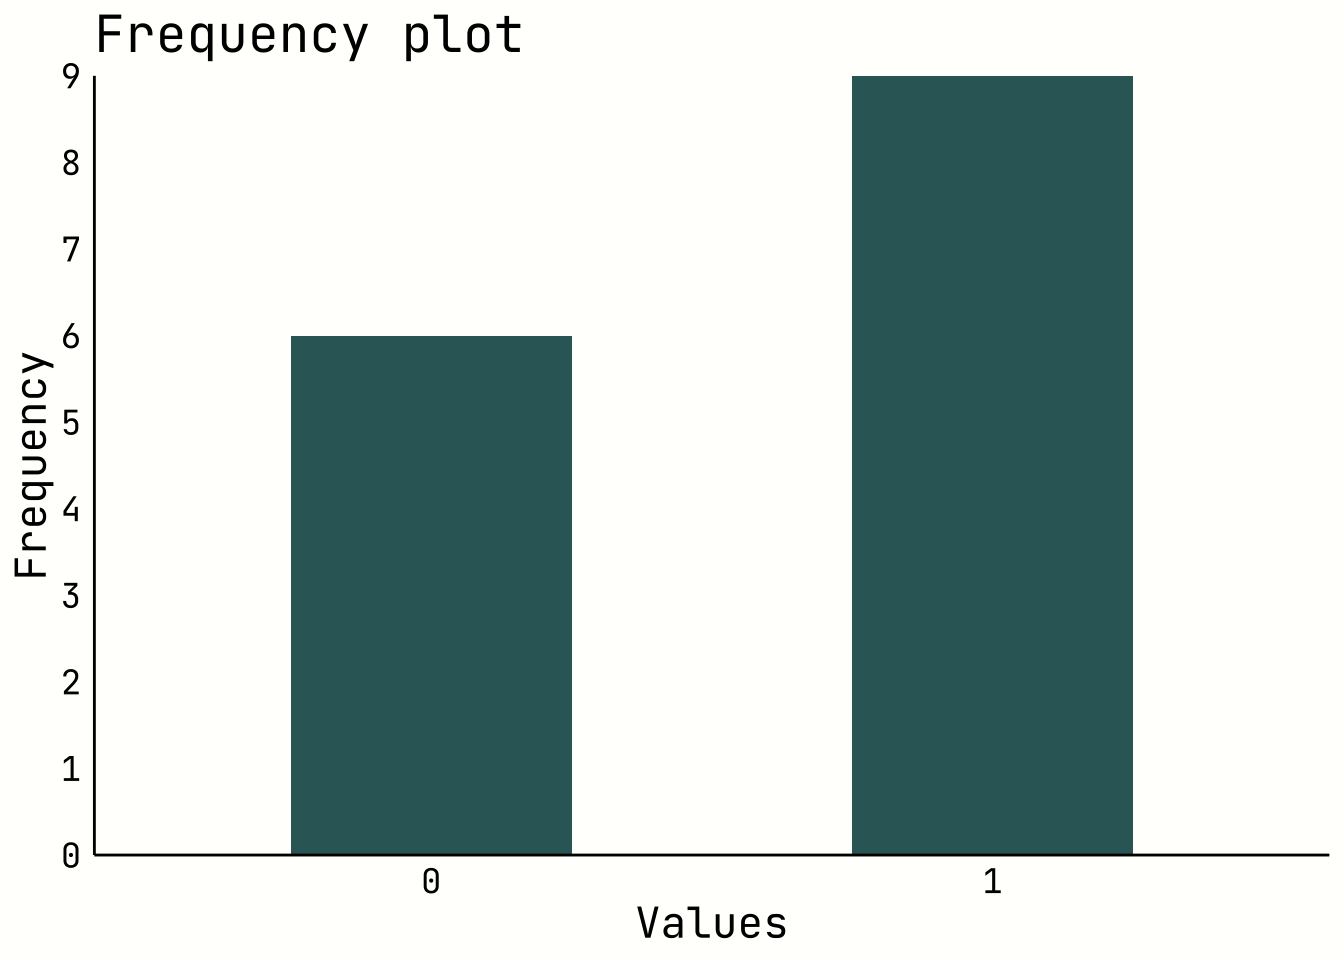
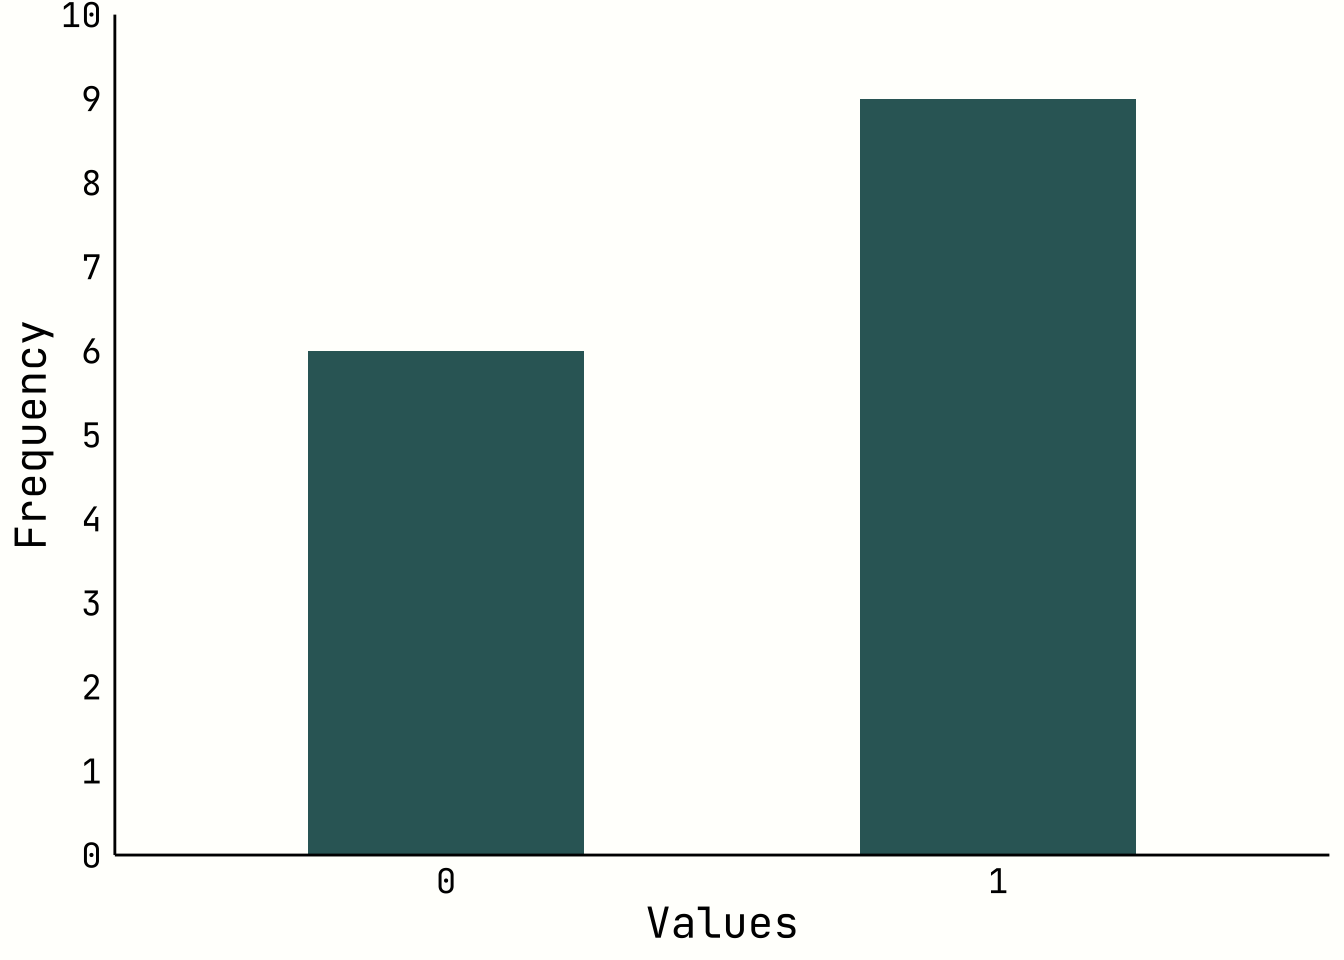
Added some marginx

diff --git a/theme/theme.html b/theme/theme.html
@@ -107,23 +107,20 @@ pre > code.sourceCode > span > a:first-child::before { text-decoration: underlin
 <h2 class="anchored" data-anchor-id="setup">Setup</h2>
 <div class="cell">
 <div class="sourceCode cell-code" id="cb1"><pre class="sourceCode r code-with-copy"><code class="sourceCode r"><span id="cb1-1"><a href="#cb1-1" aria-hidden="true" tabindex="-1"></a><span class="fu">library</span>(tidyverse)</span>
-<span id="cb1-2"><a href="#cb1-2" aria-hidden="true" tabindex="-1"></a><span class="fu">library</span>(ggplot2)</span></code><button title="Copy to Clipboard" class="code-copy-button"><i class="bi"></i></button></pre></div>
+<span id="cb1-2"><a href="#cb1-2" aria-hidden="true" tabindex="-1"></a><span class="fu">library</span>(ggplot2)</span>
+<span id="cb1-3"><a href="#cb1-3" aria-hidden="true" tabindex="-1"></a>devtools<span class="sc">::</span><span class="fu">source_url</span>(<span class="st">"https://raw.githubusercontent.com/AJThurston/dataviz/refs/heads/main/theme/theme.r"</span>)</span></code><button title="Copy to Clipboard" class="code-copy-button"><i class="bi"></i></button></pre></div>
 </div>
 </section>
 <section id="plot" class="level2">
 <h2 class="anchored" data-anchor-id="plot">Plot</h2>
 <div class="cell">
-<div class="sourceCode cell-code" id="cb2"><pre class="sourceCode r code-with-copy"><code class="sourceCode r"><span id="cb2-1"><a href="#cb2-1" aria-hidden="true" tabindex="-1"></a>devtools<span class="sc">::</span><span class="fu">source_url</span>(<span class="st">"https://raw.githubusercontent.com/AJThurston/dataviz/refs/heads/main/theme/theme.r"</span>)</span>
+<div class="sourceCode cell-code" id="cb2"><pre class="sourceCode r code-with-copy"><code class="sourceCode r"><span id="cb2-1"><a href="#cb2-1" aria-hidden="true" tabindex="-1"></a>df <span class="ot">&lt;-</span> <span class="fu">data.frame</span>(<span class="at">values =</span> <span class="fu">as.factor</span>(<span class="fu">c</span>(<span class="fu">rep</span>(<span class="dv">0</span>,<span class="dv">6</span>),<span class="fu">rep</span>(<span class="dv">1</span>,<span class="dv">9</span>))))</span>
 <span id="cb2-2"><a href="#cb2-2" aria-hidden="true" tabindex="-1"></a></span>
-<span id="cb2-3"><a href="#cb2-3" aria-hidden="true" tabindex="-1"></a>df <span class="ot">&lt;-</span> <span class="fu">data.frame</span>(<span class="at">values =</span> <span class="fu">as.factor</span>(<span class="fu">c</span>(<span class="dv">0</span>,<span class="dv">0</span>,<span class="dv">0</span>,<span class="dv">0</span>,<span class="dv">0</span>,<span class="dv">0</span>,<span class="dv">1</span>,<span class="dv">1</span>,<span class="dv">1</span>,<span class="dv">1</span>,<span class="dv">1</span>,<span class="dv">1</span>,<span class="dv">1</span>,<span class="dv">1</span>,<span class="dv">1</span>)))</span>
-<span id="cb2-4"><a href="#cb2-4" aria-hidden="true" tabindex="-1"></a></span>
-<span id="cb2-5"><a href="#cb2-5" aria-hidden="true" tabindex="-1"></a><span class="fu">ggplot</span>(df, <span class="fu">aes</span>(<span class="at">x =</span> values)) <span class="sc">+</span></span>
-<span id="cb2-6"><a href="#cb2-6" aria-hidden="true" tabindex="-1"></a>  <span class="fu">geom_bar</span>(<span class="at">fill =</span> <span class="st">"#336666"</span>, <span class="at">width =</span> .<span class="dv">5</span>) <span class="sc">+</span></span>
-<span id="cb2-7"><a href="#cb2-7" aria-hidden="true" tabindex="-1"></a>  <span class="fu">labs</span>(<span class="at">title =</span> <span class="st">"Frequency plot"</span>,</span>
-<span id="cb2-8"><a href="#cb2-8" aria-hidden="true" tabindex="-1"></a>       <span class="at">x =</span> <span class="st">"Values"</span>,</span>
-<span id="cb2-9"><a href="#cb2-9" aria-hidden="true" tabindex="-1"></a>       <span class="at">y =</span> <span class="st">"Frequency"</span>) <span class="sc">+</span></span>
-<span id="cb2-10"><a href="#cb2-10" aria-hidden="true" tabindex="-1"></a>  <span class="fu">scale_y_continuous</span>(<span class="at">breaks =</span> <span class="fu">c</span>(<span class="dv">0</span><span class="sc">:</span><span class="dv">10</span>), <span class="at">expand =</span> <span class="fu">c</span>(<span class="dv">0</span>,<span class="dv">0</span>,<span class="dv">0</span>,<span class="dv">0</span>)) <span class="sc">+</span></span>
-<span id="cb2-11"><a href="#cb2-11" aria-hidden="true" tabindex="-1"></a>  <span class="fu">theme_custom</span>(<span class="at">base_size =</span> <span class="dv">16</span>)</span></code><button title="Copy to Clipboard" class="code-copy-button"><i class="bi"></i></button></pre></div>
+<span id="cb2-3"><a href="#cb2-3" aria-hidden="true" tabindex="-1"></a><span class="fu">ggplot</span>(df, <span class="fu">aes</span>(<span class="at">x =</span> values)) <span class="sc">+</span></span>
+<span id="cb2-4"><a href="#cb2-4" aria-hidden="true" tabindex="-1"></a>  <span class="fu">geom_bar</span>(<span class="at">fill =</span> <span class="st">"#336666"</span>, <span class="at">width =</span> .<span class="dv">5</span>) <span class="sc">+</span></span>
+<span id="cb2-5"><a href="#cb2-5" aria-hidden="true" tabindex="-1"></a>  <span class="fu">labs</span>(<span class="at">x =</span> <span class="st">"Values"</span>, <span class="at">y =</span> <span class="st">"Frequency"</span>) <span class="sc">+</span></span>
+<span id="cb2-6"><a href="#cb2-6" aria-hidden="true" tabindex="-1"></a>  <span class="fu">scale_y_continuous</span>(<span class="at">limits =</span> <span class="fu">c</span>(<span class="dv">0</span>,<span class="dv">10</span>), <span class="at">breaks =</span> <span class="fu">c</span>(<span class="dv">0</span><span class="sc">:</span><span class="dv">10</span>), <span class="at">expand =</span> <span class="fu">c</span>(<span class="dv">0</span>,<span class="dv">0</span>)) <span class="sc">+</span></span>
+<span id="cb2-7"><a href="#cb2-7" aria-hidden="true" tabindex="-1"></a>  <span class="fu">theme_custom</span>()</span></code><button title="Copy to Clipboard" class="code-copy-button"><i class="bi"></i></button></pre></div>
 <div class="cell-output-display">
 <div>
 <figure class="figure">
